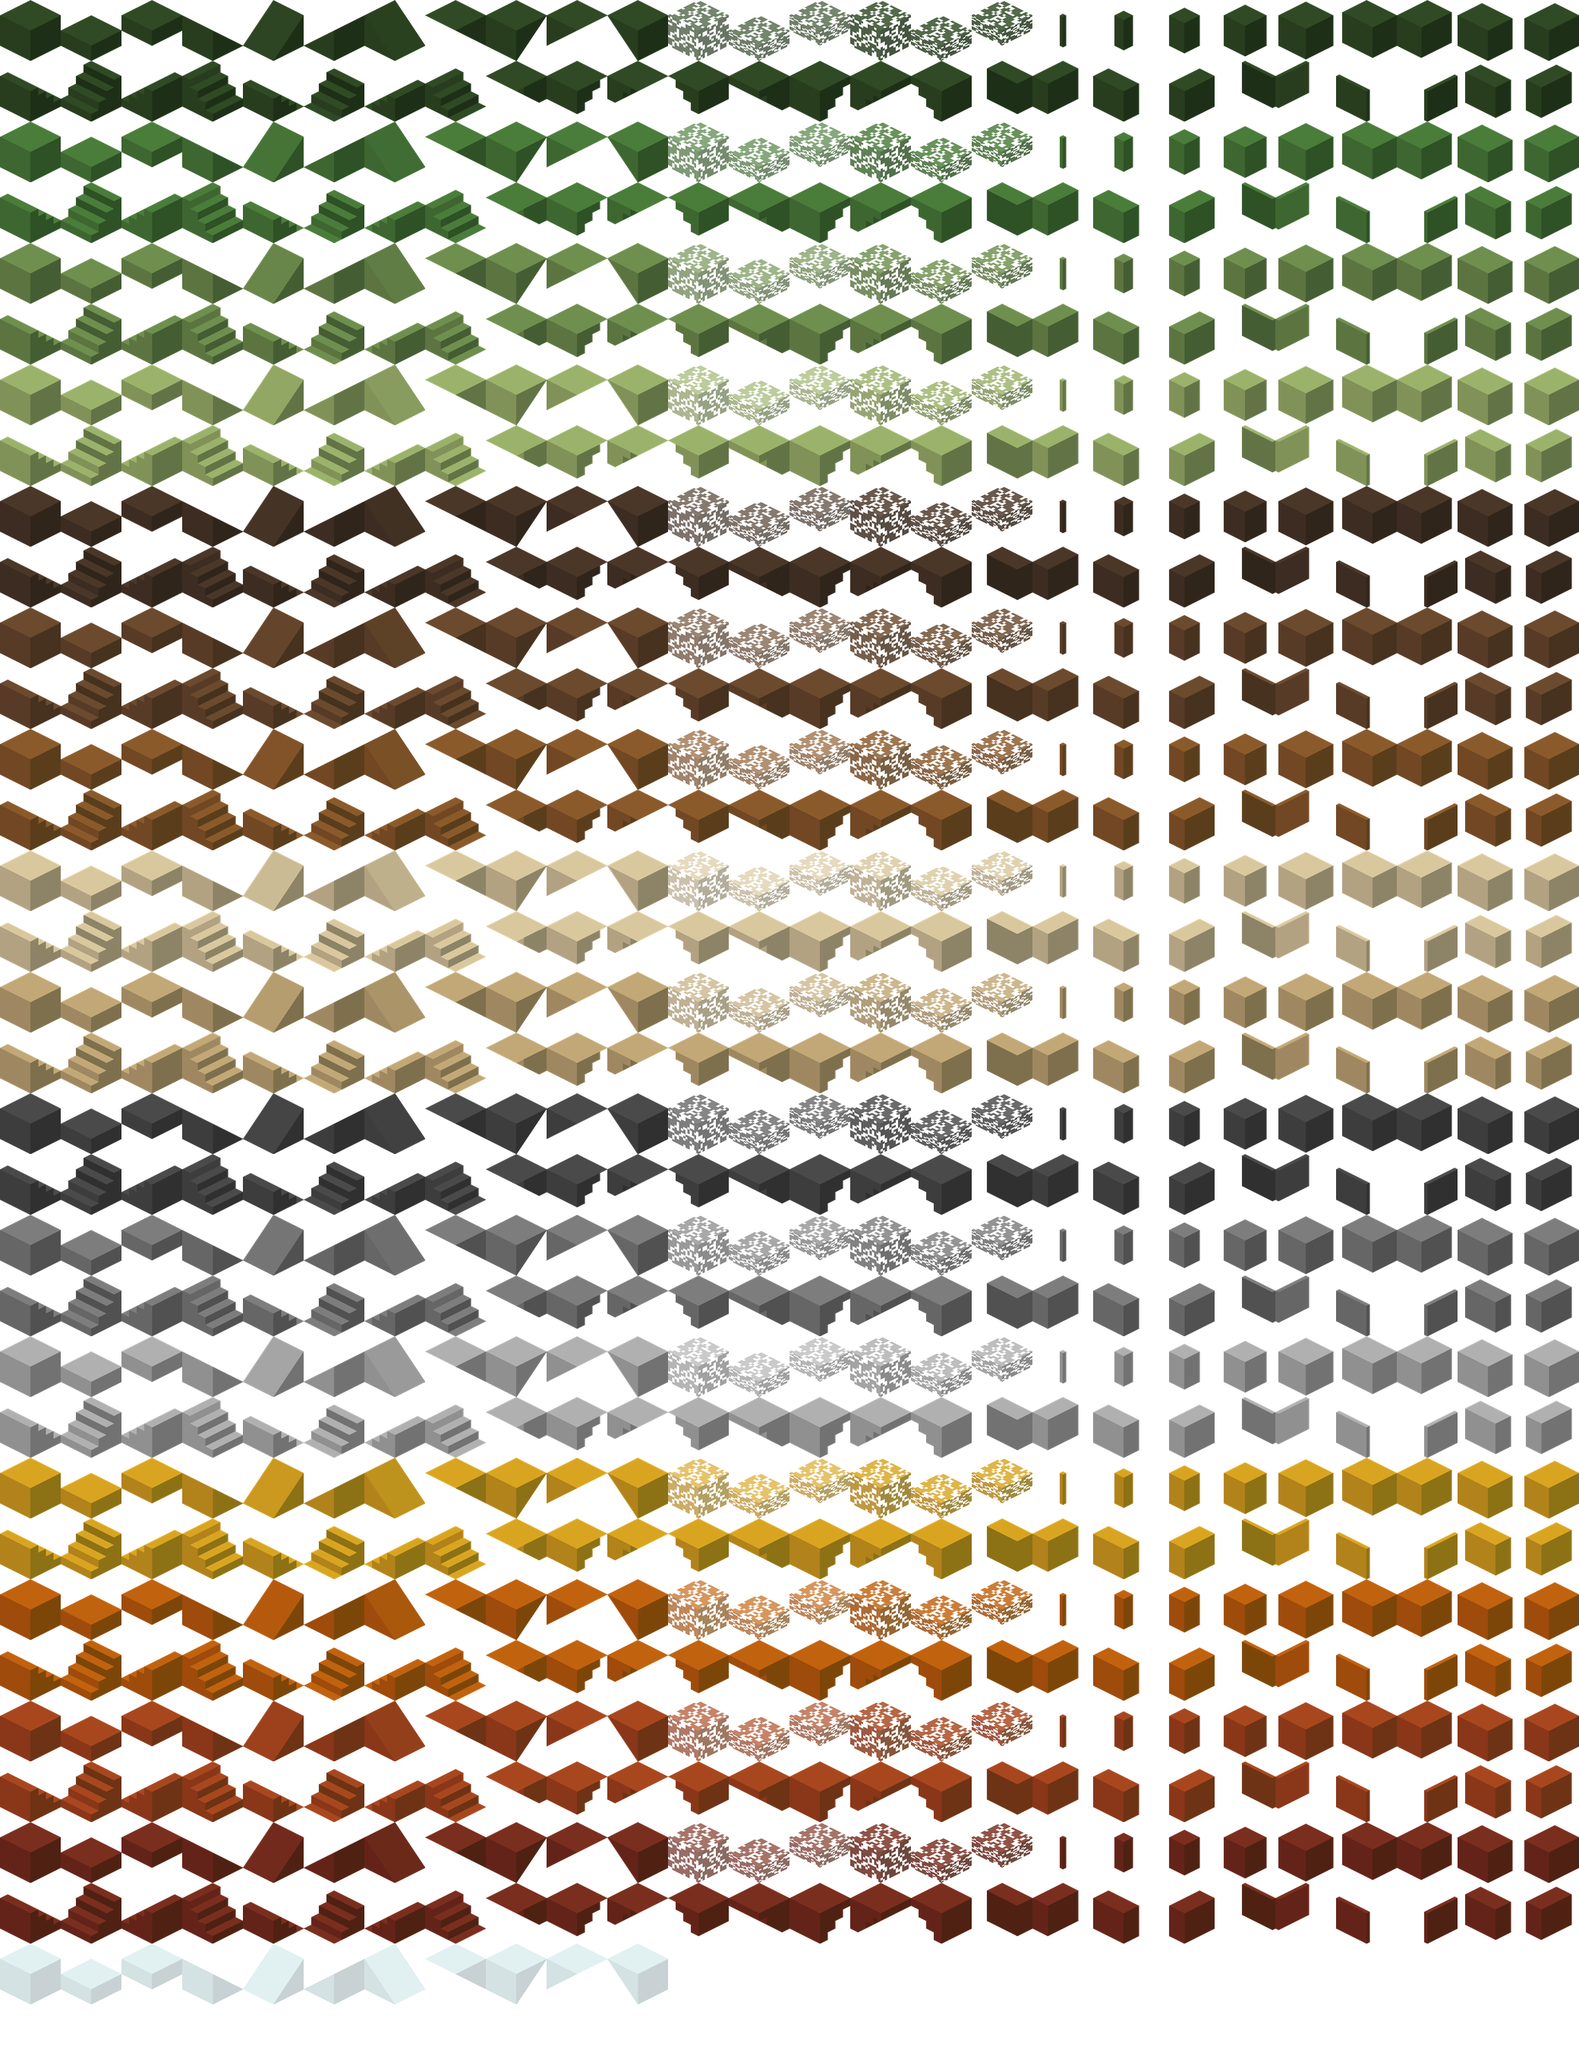
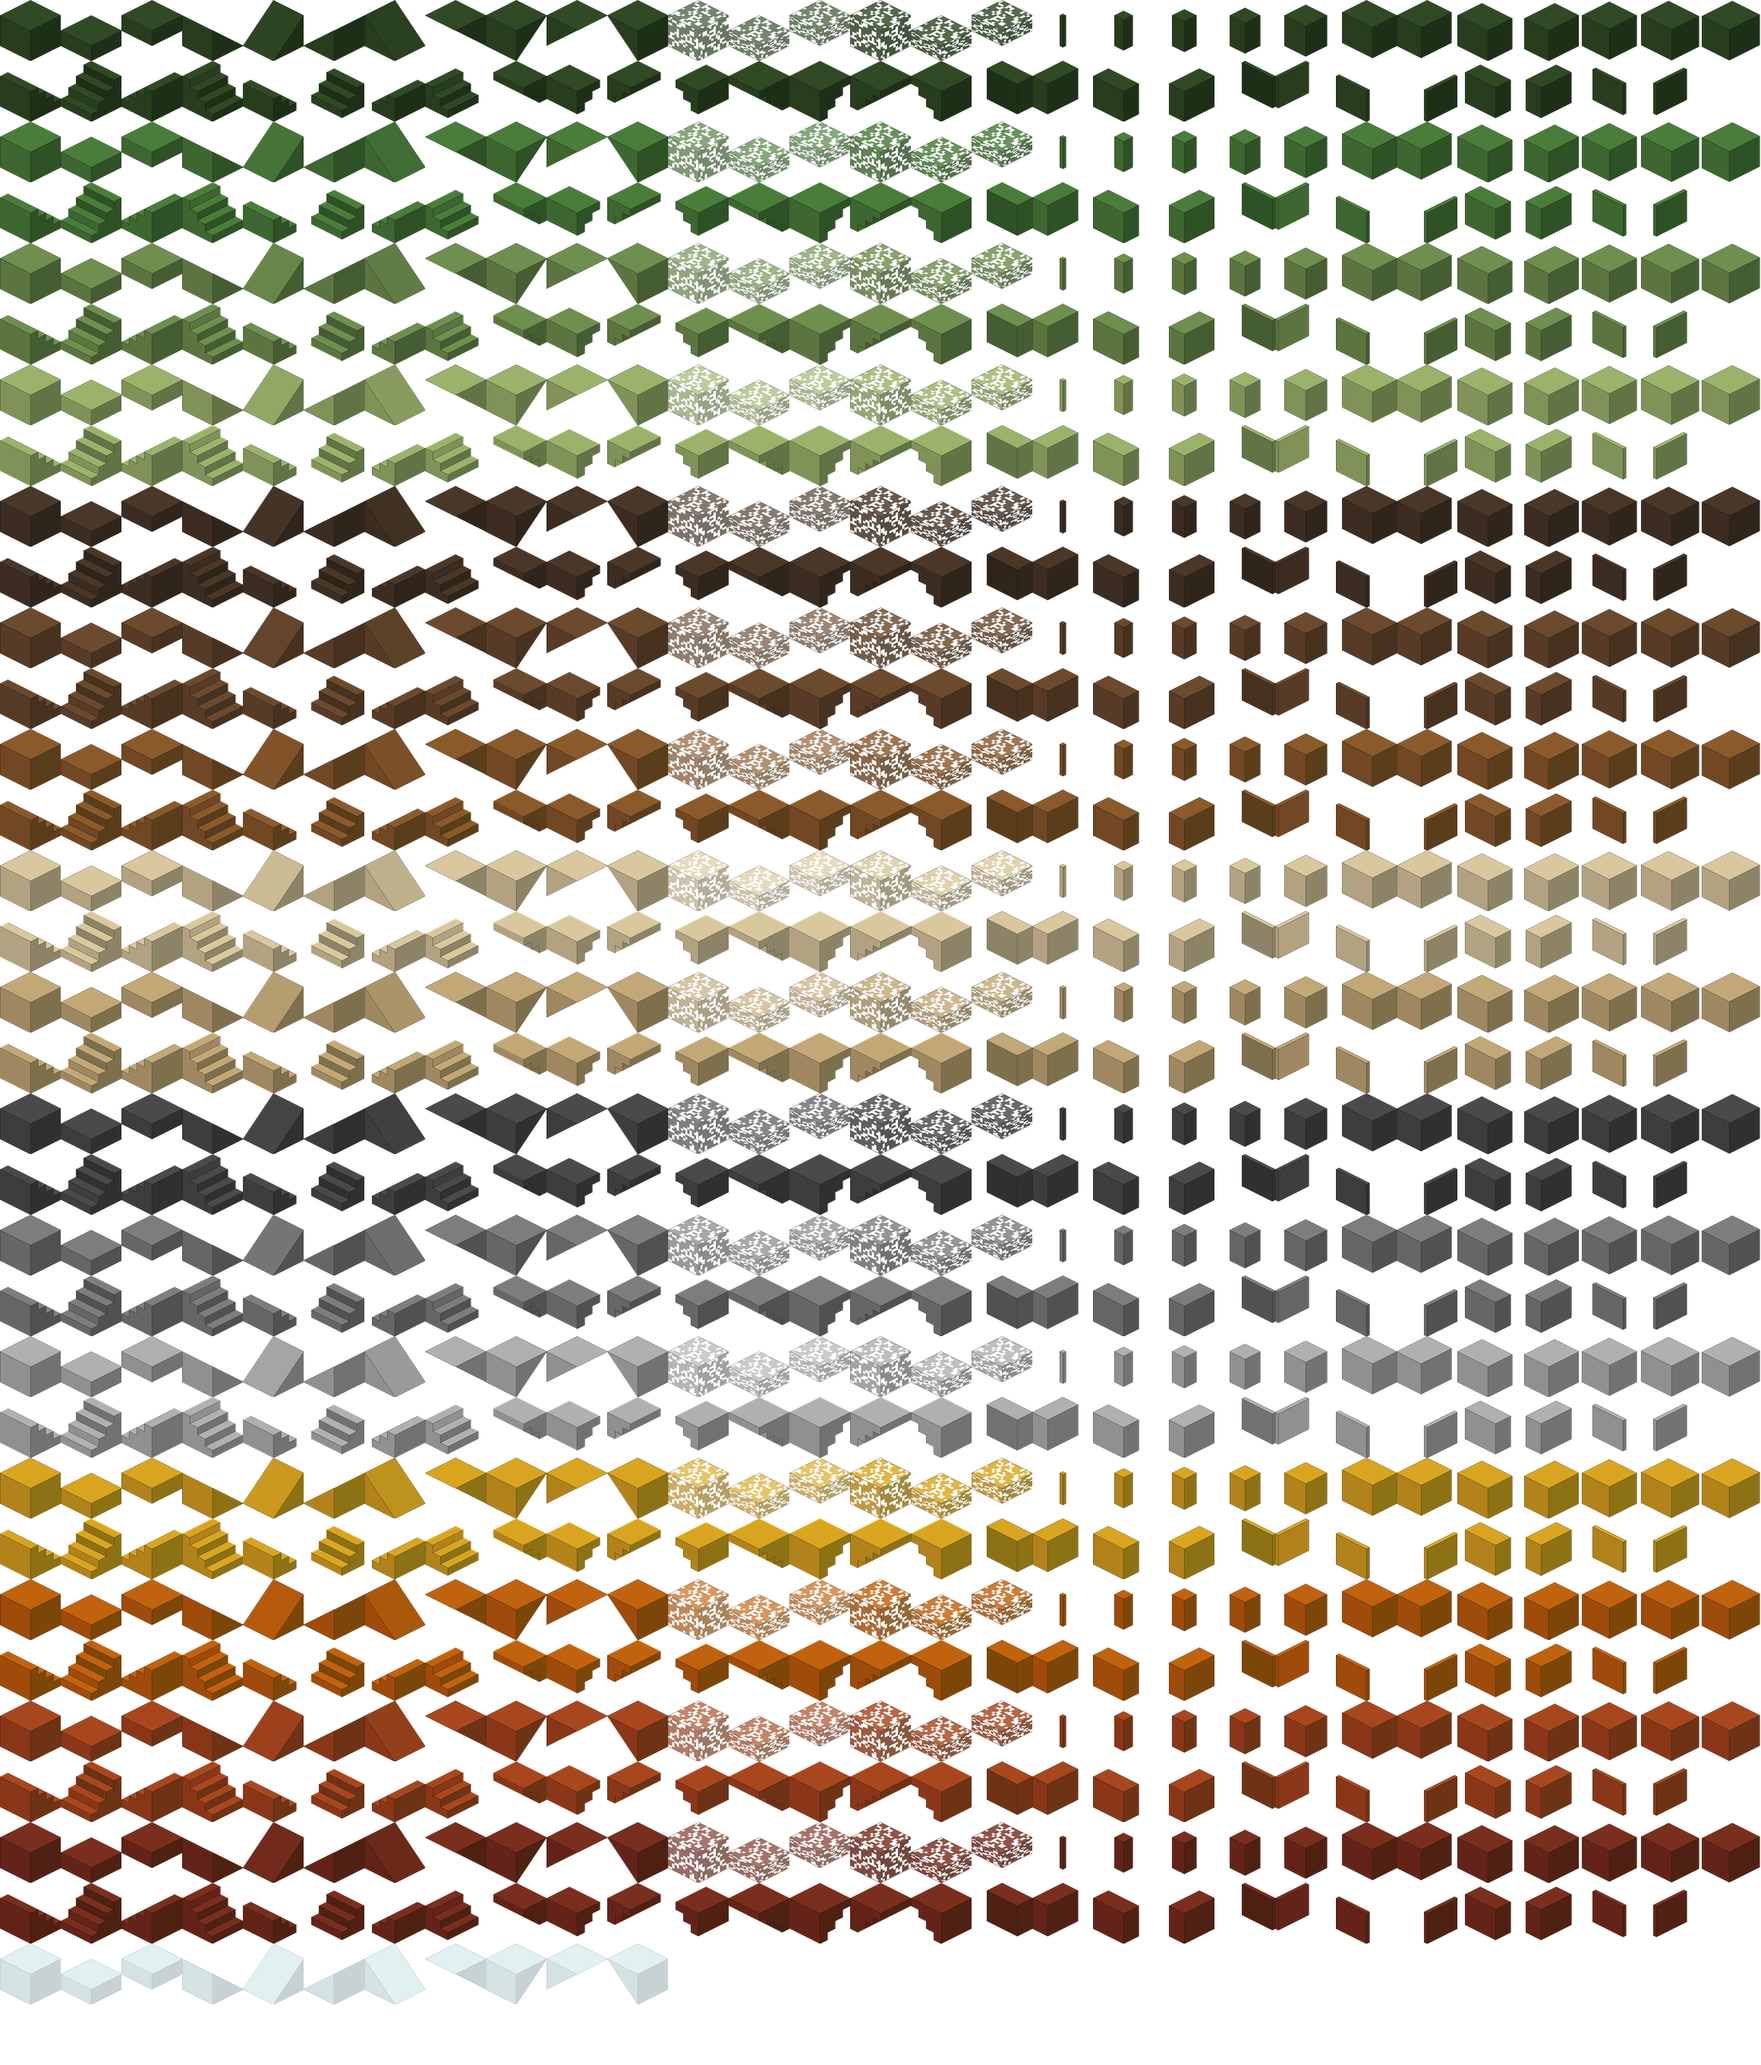
Changed tile edges to 0.05. Added new walls

diff --git a/GenerateTiles/generate-stairs.py b/GenerateTiles/generate-stairs.py
@@ -242,6 +242,12 @@ def world_levels(args):
     return complementary, short, axis, low_end, [v * args.box_height for v in levels]
 
 
+def step_has_thickness(complementary, z, height):
+    """Whether the solid has non-zero thickness at this tread level."""
+    thickness = height - z if complementary else z
+    return thickness > 1e-12
+
+
 # ----------------------------------------------------------------------
 # Faces
 # ----------------------------------------------------------------------
@@ -272,6 +278,11 @@ def build_faces(args):
 
     # Staircase horizontal surfaces.
     for i, z in enumerate(level_z):
+        # Do not draw the zero-thickness first tread of short-stairs (z=0),
+        # or the zero-thickness terminal tread of complementary stairs (z=h).
+        if not step_has_thickness(complementary, z, h):
+            continue
+
         a0 = i * ds
         a1 = (i + 1) * ds
 
@@ -281,18 +292,10 @@ def build_faces(args):
             pts = [(0, a0, z), (s, a0, z), (s, a1, z), (0, a1, z)]
 
         if complementary:
-            # The stepped surface is the underside.  If a terminal strip is
-            # exactly h..h, retain it as an upward top face as requested.
-            terminal_at_h = abs(z - h) < 1e-12
-            add(
-                "top" if terminal_at_h else "bottom",
-                pts,
-                (0, 0, 1) if terminal_at_h else (0, 0, -1),
-                force_visible=terminal_at_h,
-            )
+            # The stepped surface is the underside.
+            add("bottom", pts, (0, 0, -1))
         else:
-            # z=0 short-stair tread remains a genuine visible horizontal face.
-            add("top", pts, (0, 0, 1), force_visible=(short and abs(z) < 1e-12))
+            add("top", pts, (0, 0, 1))
 
     # Risers between neighbouring treads.
     for i in range(n - 1):
@@ -353,9 +356,21 @@ def build_faces(args):
             normal = (0, sign, 0)
         add("side", pts, normal)
 
-    # Flat opposite cap, one polygon: no artificial step divisions.
+    # Flat opposite cap.  For complementary stairs, construct it from only
+    # the strips that have actual solid below them; otherwise an up-stairs
+    # terminal level at z=h would leave a spurious top face over empty space.
+    # These are fill polygons only, so their internal boundaries are not inked.
     if complementary:
-        add("top", [(0, 0, h), (s, 0, h), (s, s, h), (0, s, h)], (0, 0, 1))
+        for i, z in enumerate(level_z):
+            if not step_has_thickness(complementary, z, h):
+                continue
+            a0 = i * ds
+            a1 = (i + 1) * ds
+            if axis == "x":
+                pts = [(a0, 0, h), (a1, 0, h), (a1, s, h), (a0, s, h)]
+            else:
+                pts = [(0, a0, h), (s, a0, h), (s, a1, h), (0, a1, h)]
+            add("top", pts, (0, 0, 1))
     else:
         add("bottom", [(0, s, 0), (s, s, 0), (s, 0, 0), (0, 0, 0)], (0, 0, -1))
 
@@ -413,13 +428,21 @@ def build_edges(args, camera_vector):
     for i, z in enumerate(level_z):
         a0 = i * ds
         a1 = (i + 1) * ds
-        add(p(a0, near_t, z), p(a1, near_t, z))
+        if step_has_thickness(complementary, z, h):
+            add(p(a0, near_t, z), p(a1, near_t, z))
         if i + 1 < n:
             add(p(a1, near_t, z), p(a1, near_t, level_z[i + 1]))
 
-    # Close this visible side against the opposite flat cap.
+    # Close this visible side against the opposite flat cap.  Draw the cap
+    # boundary one strip at a time so a zero-thickness tread does not leave
+    # an otherwise orphaned horizontal edge.
     flat_z = h if complementary else 0
-    add(p(0, near_t, flat_z), p(s, near_t, flat_z))
+    for i, z in enumerate(level_z):
+        if step_has_thickness(complementary, z, h):
+            add(
+                p(i * ds, near_t, flat_z),
+                p((i + 1) * ds, near_t, flat_z),
+            )
     add(p(0, near_t, flat_z), p(0, near_t, level_z[0]))
     add(p(s, near_t, flat_z), p(s, near_t, level_z[-1]))
 
@@ -446,23 +469,27 @@ def build_edges(args, camera_vector):
 
             riser_faces_camera = sign * axis_camera > 1e-10
             if riser_faces_camera:
-                e0, e1 = across(a, lo)
-                add(e0, e1)
-                e0, e1 = across(a, hi)
-                add(e0, e1)
+                # Each horizontal riser border belongs to the tread at that
+                # same level.  Suppress it when that tread has zero thickness.
+                for z in (z0, z1):
+                    if step_has_thickness(complementary, z, h):
+                        e0, e1 = across(a, z)
+                        add(e0, e1)
             else:
                 # Even when the riser faces away, its upper tread border is
                 # the visible crease between adjacent top levels.
-                e0, e1 = across(a, hi)
-                add(e0, e1)
+                if step_has_thickness(complementary, hi, h):
+                    e0, e1 = across(a, hi)
+                    add(e0, e1)
 
     # 3. Only the longitudinal END toward the camera gets an across-width
     # outline.  The opposite/back end is intentionally not inked.
     near_index = n - 1 if axis_camera >= 0 else 0
     near_a = s if near_index == n - 1 else 0
     near_z = level_z[near_index]
-    e0, e1 = across(near_a, h if complementary else near_z)
-    add(e0, e1)
+    if step_has_thickness(complementary, near_z, h):
+        e0, e1 = across(near_a, h if complementary else near_z)
+        add(e0, e1)
 
     # Remove duplicates without changing order.
     result = []

diff --git a/GenerateTiles/merge_tiles.py b/GenerateTiles/merge_tiles.py
@@ -6,9 +6,9 @@ DIR="tiles"
 TILE_SIZE = 80
 N_SETS = 17  # Maximal number for N
 ROW_LEN = 24  # Minimum row length (0 means it defaults to the longest list)
-
-LIST1 = ["box", "half", "up-half", "slope-x0", "slope-x1", "slope-y0", "slope-y1", "up-slope-x0", "up-slope-x1", "up-slope-y0", "up-slope-y1", "leav170-box", "leav170-half", "leav170-up-half", "leav210-box", "leav210-half", "leav210-up-half", "pole1", "pole2", "pole3", "pole4", "pole5", "thick-x0", "thick-y0", "thick-x1", "thick-y1"]
-LIST2 = ["stairs-x0", "stairs-x1", "stairs-y0", "stairs-y1", "short-stairs-x0", "short-stairs-x1", "short-stairs-y0", "short-stairs-y1", "up-stairs-x0", "up-stairs-x1", "up-stairs-y0", "up-stairs-y1", "up-short-stairs-x0", "up-short-stairs-x1", "up-short-stairs-y0", "up-short-stairs-y1", "half-x0", "half-y0","half-x1", "half-y1", "wall-x0", "wall-y0", "wall-x1", "wall-y1", "mid-x", "mid-y"]
+        
+LIST1 = ["box", "half", "up-half", "slope-x0", "slope-x1", "slope-y0", "slope-y1", "up-slope-x0", "up-slope-x1", "up-slope-y0", "up-slope-y1", "leav170-box", "leav170-half", "leav170-up-half", "leav210-box", "leav210-half", "leav210-up-half", "pole1", "pole2", "pole3", "pole4", "pole5", "thick-x0", "thick-y0", "thick-x1", "thick-y1", "pole6", "midthick-x", "midthick-y"]
+LIST2 = ["stairs-x0", "stairs-x1", "stairs-y0", "stairs-y1", "short-stairs-x0", "short-stairs-x1", "short-stairs-y0", "short-stairs-y1", "up-stairs-x0", "up-stairs-x1", "up-stairs-y0", "up-stairs-y1", "up-short-stairs-x0", "up-short-stairs-x1", "up-short-stairs-y0", "up-short-stairs-y1", "half-x0", "half-y0","half-x1", "half-y1", "wall-x0", "wall-y0", "wall-x1", "wall-y1", "mid-x", "mid-y", "midwall-x", "midwall-y"]
 OUTPUT_FILE = "merge_tiles.png"
 # ---------------------
 

diff --git a/GenerateTiles/generate-pole.py b/GenerateTiles/generate-pole.py
@@ -52,8 +52,13 @@ SHAPES = (
     "pole3",
     "pole4",
     "pole5",
+    "pole6",
     "mid-x",
     "mid-y",
+    "midwall-x",
+    "midwall-y",
+    "midthick-x",
+    "midthick-y",
     "half-x0",
     "half-x1",
     "half-y0",
@@ -214,11 +219,16 @@ def get_prism_bounds(shape):
         "up-half": (0.00, 0.00, 0.50, 1.00, 1.00, 1.00),
         "pole1":   (0.45, 0.45, 0.00, 0.55, 0.55, 1.00),
         "pole2":   (0.35, 0.35, 0.00, 0.65, 0.65, 1.00),
-        "pole3":   (0.25, 0.25, 0.00, 0.75, 0.75, 1.00),
-        "pole4":   (0.15, 0.15, 0.00, 0.85, 0.85, 1.00),
-        "pole5":   (0.05, 0.05, 0.00, 0.95, 0.95, 1.00),
+        "pole3":   (0.30, 0.30, 0.00, 0.70, 0.70, 1.00),
+        "pole4":   (0.25, 0.25, 0.00, 0.75, 0.75, 1.00),
+        "pole5":   (0.15, 0.15, 0.00, 0.85, 0.85, 1.00),
+        "pole6":   (0.05, 0.05, 0.00, 0.95, 0.95, 1.00),
         "mid-x":   (0.25, 0.00, 0.00, 0.75, 1.00, 1.00),
         "mid-y":   (0.00, 0.25, 0.00, 1.00, 0.75, 1.00),
+        "midwall-x": (0.45, 0.00, 0.00, 0.55, 1.00, 1.00),
+        "midwall-y": (0.00, 0.45, 0.00, 1.00, 0.55, 1.00),
+        "midthick-x": (0.05, 0.00, 0.00, 0.95, 1.00, 1.00),
+        "midthick-y": (0.00, 0.05, 0.00, 1.00, 0.95, 1.00),
         "half-x0": (0.00, 0.00, 0.00, 0.50, 1.00, 1.00),
         "half-x1": (0.50, 0.00, 0.00, 1.00, 1.00, 1.00),
         "half-y0": (0.00, 0.00, 0.00, 1.00, 0.50, 1.00),
